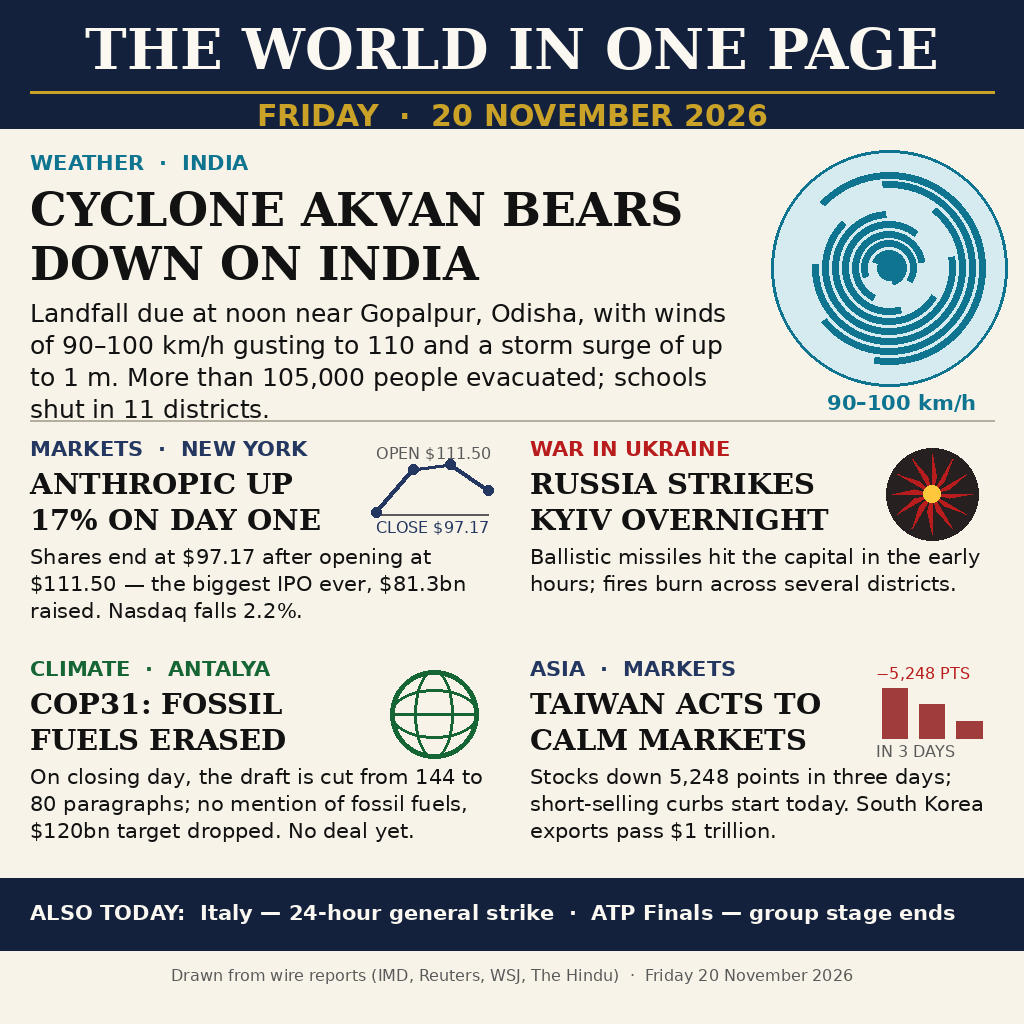
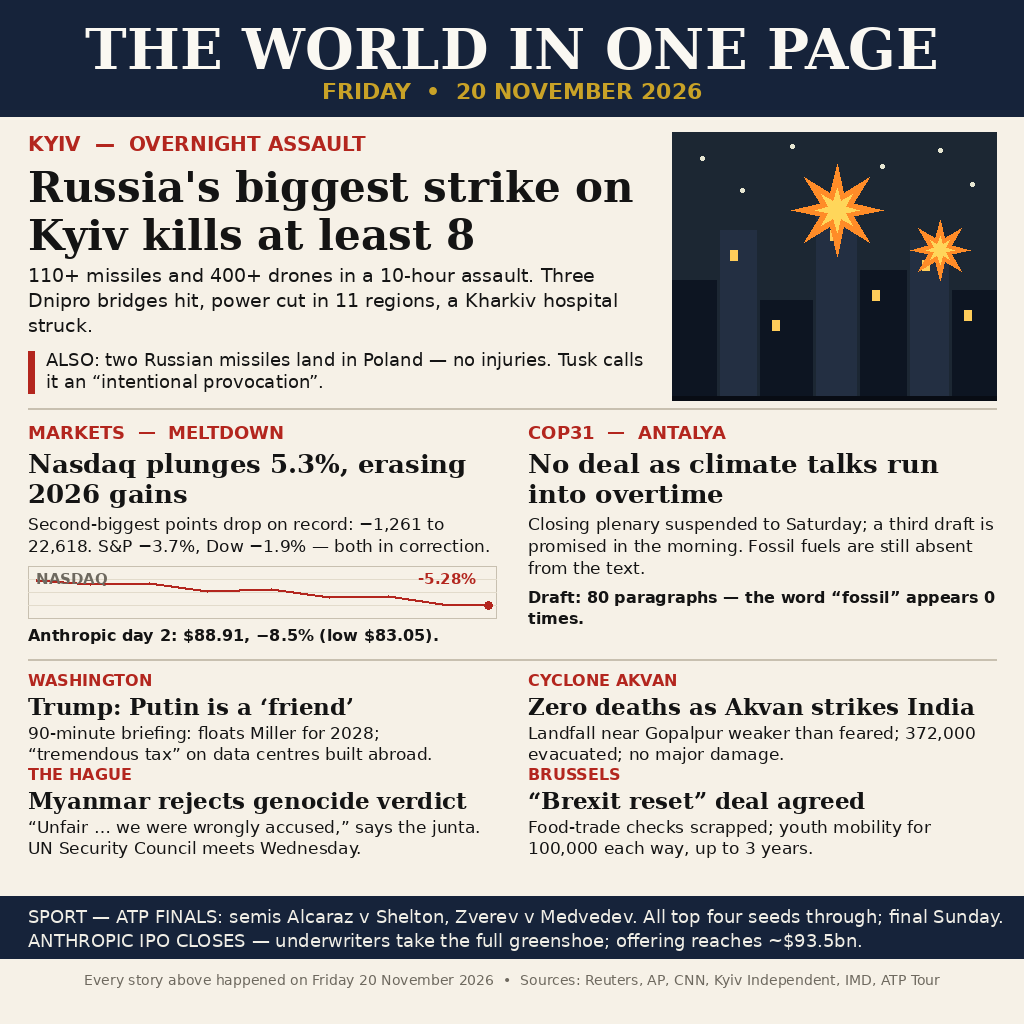
v2: full Friday news

diff --git a/main.py b/main.py
@@ -1,25 +1,27 @@
 #!/usr/bin/env python3
-"""Entry for the make.fun bounty news-image-20261120.
+"""news-image-20261120 entrypoint: deliver entry.png to the output dir.
 
-Writes the front-page summary of Friday 20 November 2026 world news
-to /output/entry.png. The image is pre-rendered and stored in this
-repository; this program only copies it, using the standard library.
-It needs no network and writes the same bytes on every run.
+The grader runs this in a fresh container with no network, the
+repository mounted read-only and a writable output directory
+(/output, or MAKEFUN_OUTPUT_DIR outside the container). Standard
+library only: nothing is installed before it runs. The image is
+delivered exactly as committed; this script never redraws it.
 """
+
 import os
 import shutil
+from pathlib import Path
 
-HERE = os.path.dirname(os.path.abspath(__file__))
+HERE = Path(__file__).resolve().parent
+OUT = Path(os.environ.get("MAKEFUN_OUTPUT_DIR", "/output"))
 
 
 def main():
-    # Deterministic by construction: a byte copy of a fixed file.
-    out_dir = os.environ.get("MAKEFUN_OUTPUT_DIR", "/output")
-    os.makedirs(out_dir, exist_ok=True)
-    shutil.copyfile(
-        os.path.join(HERE, "entry.png"),
-        os.path.join(out_dir, "entry.png"),
-    )
+    src = HERE / "entry.png"
+    if not src.exists():
+        raise SystemExit(f"entry image missing: {src}")
+    OUT.mkdir(parents=True, exist_ok=True)
+    shutil.copyfile(src, OUT / "entry.png")
 
 
 if __name__ == "__main__":

diff --git a/README.md b/README.md
@@ -1,46 +1,14 @@
-# The World in One Page — Friday 20 November 2026
+# The World in One Page — 20 November 2026
 
-[![make.fun](https://make.fun/badge/news-image-20261120.svg)](https://make.fun/bounty/news-image-20261120)
+[![news-image-20261120](https://make.fun/badge/news-image-20261120.svg)](https://make.fun/bounty/news-image-20261120)
 [![rank](https://make.fun/badge/news-image-20261120/hibikazen/makefun-news-image-20261120/rank.svg)](https://make.fun/bounty/news-image-20261120)
 [![reward](https://make.fun/badge/news-image-20261120/hibikazen/makefun-news-image-20261120/reward.svg)](https://make.fun/bounty/news-image-20261120)
 
-An entry for the [make.fun bounty "Sum up 20 November's world news in
-one image"](https://make.fun/bounty/news-image-20261120): a program that
-writes one image summing up the world's news of Friday 20 November
-2026 to `/output/entry.png`.
+A one-image summary of Friday 20 November 2026's world news, drawn as
+a newspaper front page: Russia's overnight strike on Kyiv, missiles
+landing in Poland, the markets meltdown, COP31 running into overtime,
+Trump's press conference, Cyclone Akvan, Myanmar's rejection of the
+ICJ verdict, the EU–UK "Brexit reset", and the ATP Finals semi-finals.
 
-## The image
-
-A newspaper front page, drawn programmatically (PIL, no AI-generated
-imagery), covering the day's verified stories:
-
-- **Cyclone Akvan** bears down on India's east coast — landfall due at
-  noon near Gopalpur, Odisha; 105,000+ evacuated
-- **Anthropic (ANT)** closes its first trading day up 17% at $97.17,
-  the biggest IPO ever; Nasdaq falls 2.2%
-- **Russia strikes Kyiv overnight** with ballistic missiles; fires
-  across several districts
-- **COP31 closing day** in Antalya — the draft drops all fossil-fuel
-  wording and the $120bn target; no deal yet
-- **Taiwan acts to calm its markets** after a 5,248-point slide in
-  three days; South Korea's exports pass $1 trillion
-- Also: Italy's 24-hour general strike, and the ATP Finals group
-  stage ending in Turin
-
-![entry.png](entry.png)
-
-## How it works
-
-`main.py` (Python 3.13, standard library only) copies the pre-rendered
-`entry.png` to the output directory. It runs with no network and writes
-the same bytes on every run:
-
-```sh
-mkdir -p out && MAKEFUN_OUTPUT_DIR=out python3 main.py
-```
-
-The image is 1024×1024 PNG, under 1 MiB.
-
-## License
-
-MIT — see [LICENSE](LICENSE).
+`main.py` copies `entry.png` to the output directory. Run it locally
+with `MAKEFUN_OUTPUT_DIR=out python3 main.py`.
